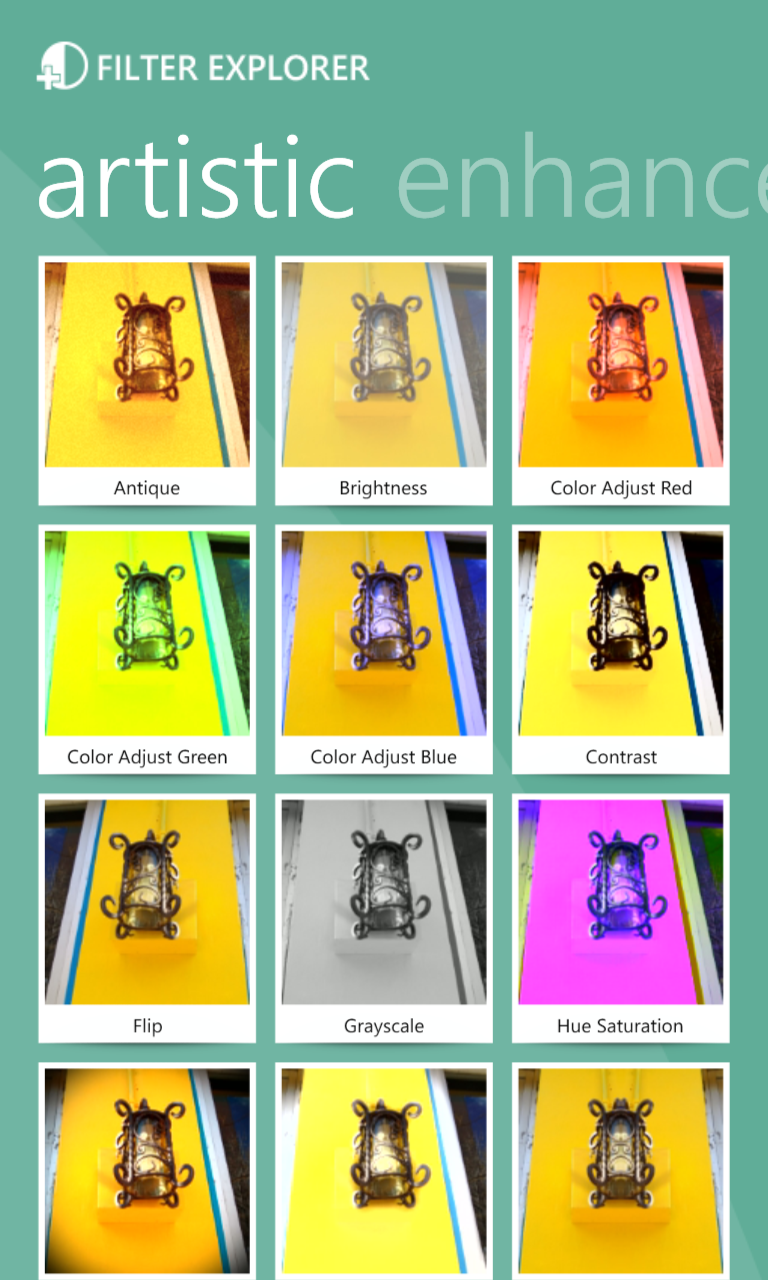
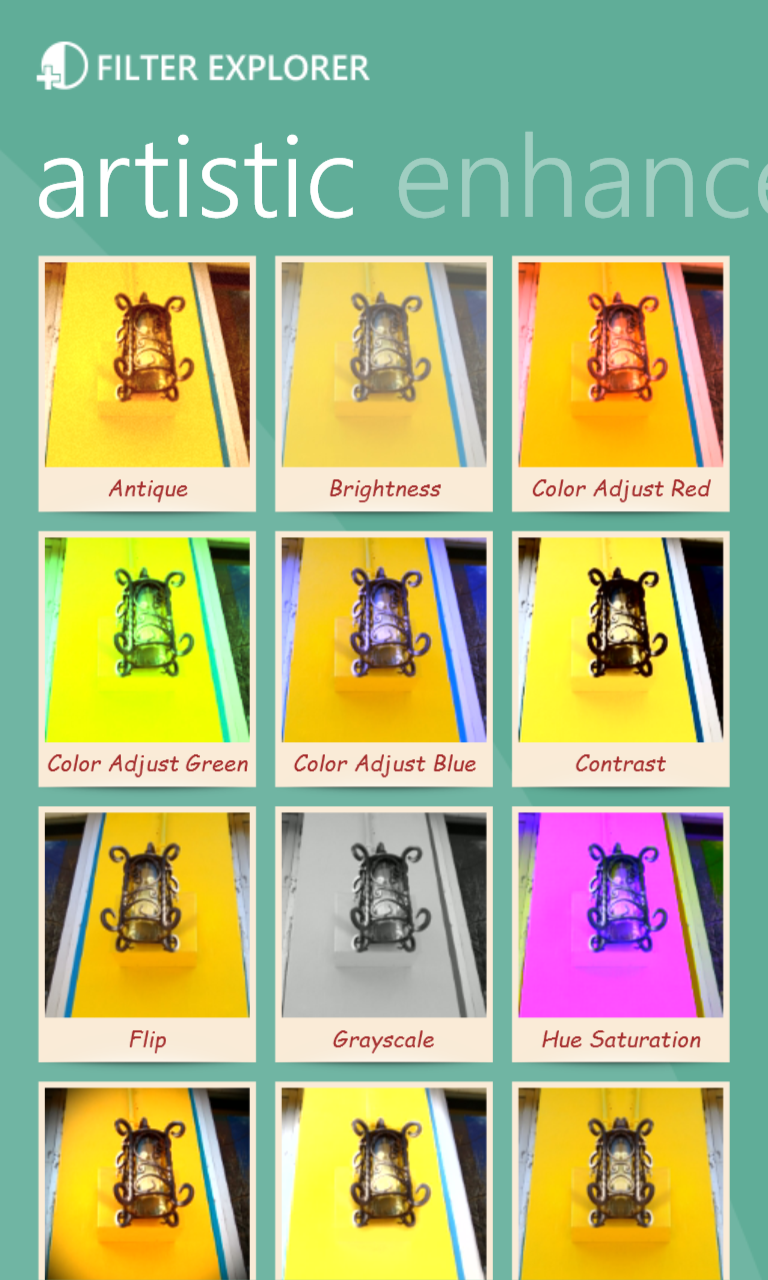
Filter thumbnails look reverted

diff --git a/FilterExplorer/App.xaml b/FilterExplorer/App.xaml
@@ -17,8 +17,8 @@
         <Color x:Key="ImageProcessingAppApplicationBarBackgroundColor">#262626</Color>
         <Color x:Key="ImageProcessingAppApplicationBarForegroundColor">White</Color>
         <Color x:Key="ImageProcessingAppRootFrameBackgroundColor">Black</Color>
-        <Color x:Key="ImageProcessingAppFrameBackgroundColor">White</Color>
-        <Color x:Key="ImageProcessingAppFrameForegroundColor">Black</Color>
+        <Color x:Key="ImageProcessingAppFrameBackgroundColor">AntiqueWhite</Color>
+        <Color x:Key="ImageProcessingAppFrameForegroundColor">Brown</Color>
 
         <SolidColorBrush x:Key="ImageProcessingAppBackgroundColorBrush" Color="{StaticResource ImageProcessingAppBackgroundColor}"/>
         <SolidColorBrush x:Key="ImageProcessingAppForegroundColorBrush" Color="{StaticResource ImageProcessingAppForegroundColor}"/>
@@ -35,7 +35,7 @@
 
         <Style x:Key="ImageProcessingAppTextSmallStyle" TargetType="TextBlock" BasedOn="{StaticResource PhoneTextSmallStyle}">
             <Setter Property="Foreground" Value="{StaticResource ImageProcessingAppForegroundColorBrush}"/>
-            <Setter Property="FontSize" Value="12"/>
+            <Setter Property="FontSize" Value="14"/>
         </Style>
 
         <Style x:Key="ImageProcessingAppTextLargeStyle" TargetType="TextBlock" BasedOn="{StaticResource PhoneTextLargeStyle}">

diff --git a/FilterExplorer/Controls/PhotoThumbnail.xaml b/FilterExplorer/Controls/PhotoThumbnail.xaml
@@ -20,7 +20,8 @@
         <TextBlock Grid.Row="1" Text="{Binding Text}" Margin="4,3,4,5"
                    Style="{StaticResource ImageProcessingAppTextSmallStyle}"
                    HorizontalAlignment="Center" VerticalAlignment="Center"
-                   Foreground="{StaticResource ImageProcessingAppFrameForegroundColorBrush}"/>
+                   Foreground="{StaticResource ImageProcessingAppFrameForegroundColorBrush}"
+                   FontFamily="Comic Sans MS" FontStyle="Italic"/>
 
         <Image Grid.Row="1" Source="/Assets/Graphics/shadow.png" VerticalAlignment="Bottom" Margin="0,0,0,-8"/>
     </Grid>
